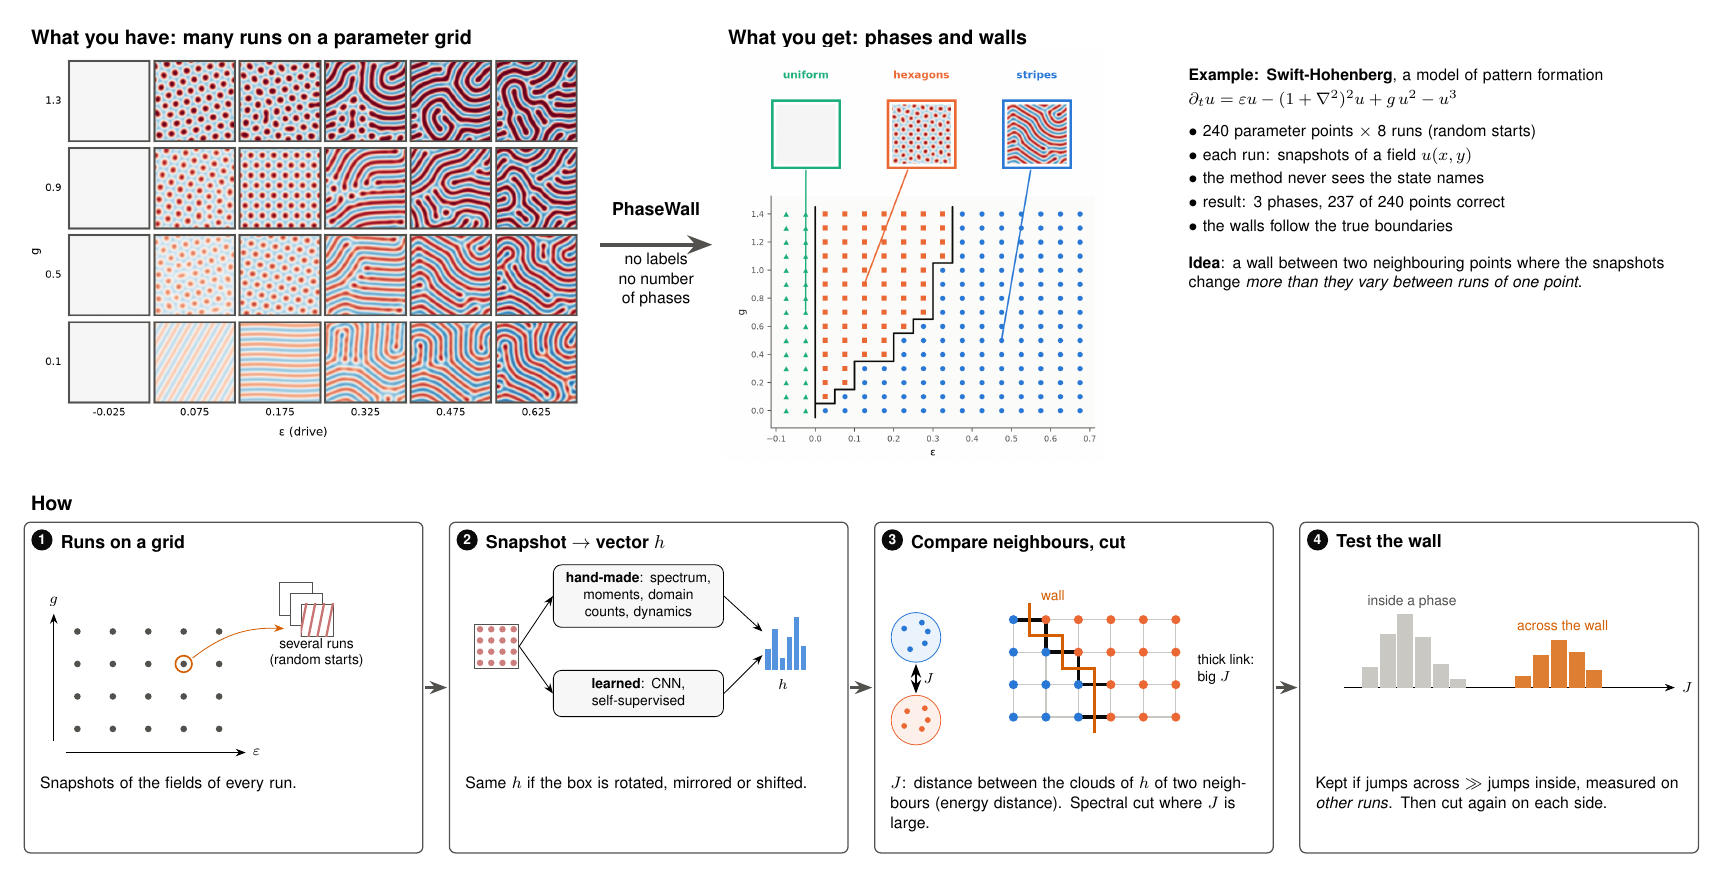
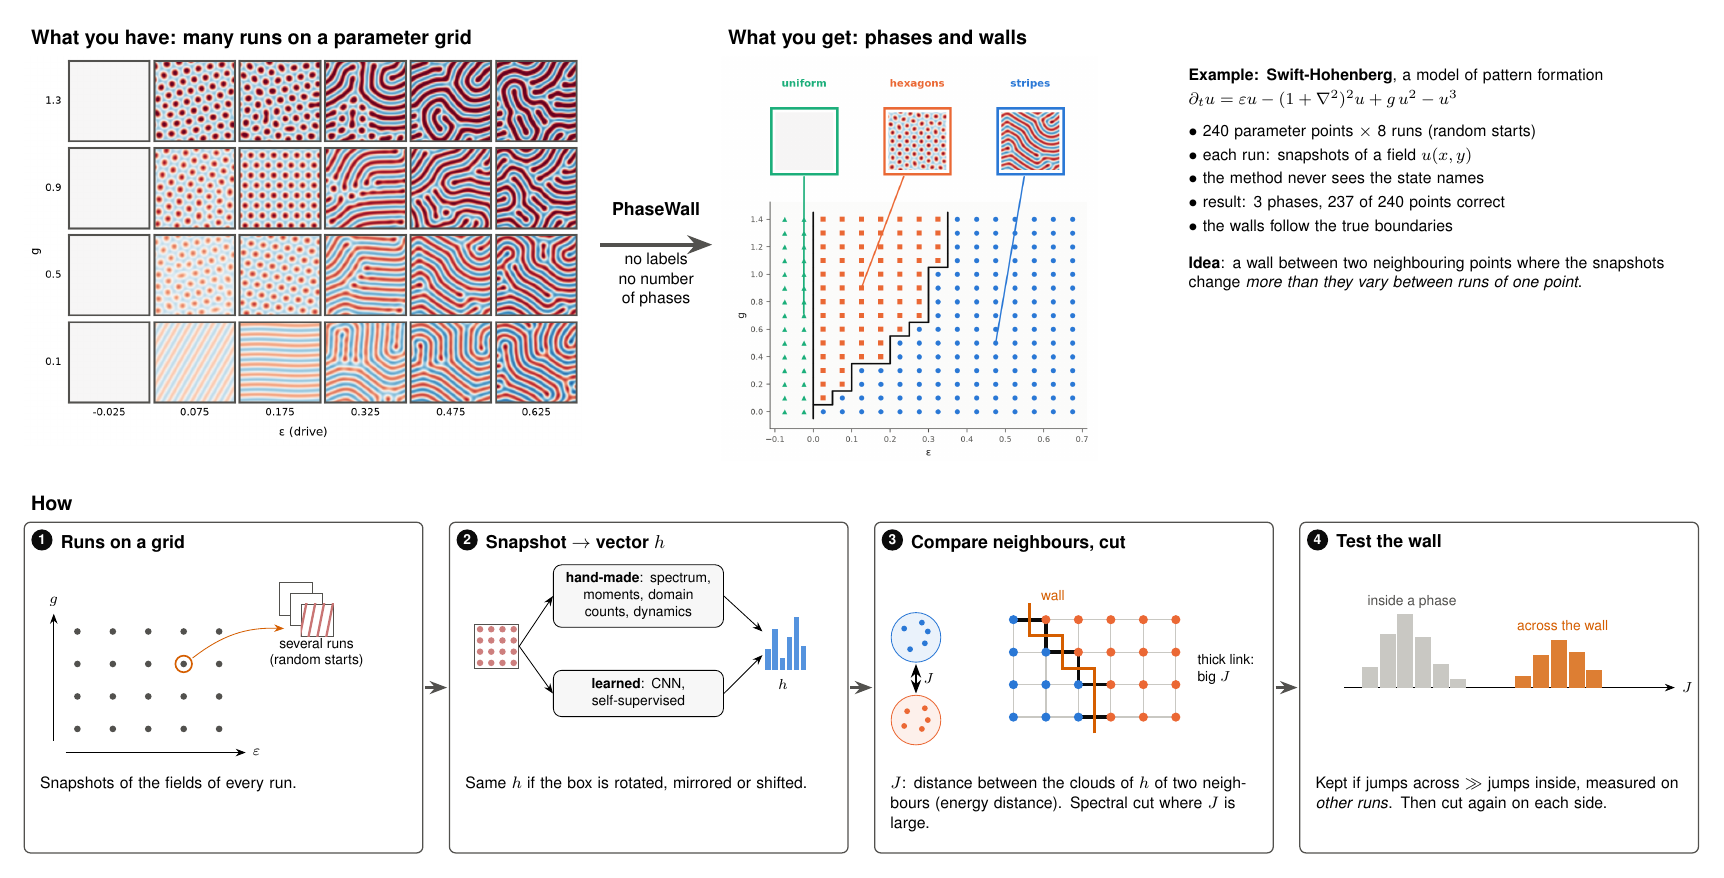
image corrected

Changed region(s): [[0.4304, 0.0615, 0.6456, 0.492]]

diff --git a/docs/tldr/overview_body.tex b/docs/tldr/overview_body.tex
@@ -6,7 +6,7 @@
 \node[font=\bfseries\small, align=center] at (10.7,-4.0) {PhaseWall};
 \node[font=\footnotesize, align=center] at (10.7,-5.2) {no labels\\no number\\of phases};
 \node[anchor=north west, font=\bfseries\normalsize] at (11.8,-0.85) {What you get: phases and walls};
-\node[anchor=north west, inner sep=0] at (11.8,-1.25) {\includegraphics[height=7.0cm]{fig_sh_phases.png}};
+\node[anchor=north west, inner sep=0] at (11.8,-1.4) {\includegraphics[height=6.85cm]{fig_sh_phases.png}};
 \node[say, text width=8.3cm] at (19.6,-1.5) {
 \textbf{Example: Swift-Hohenberg}, a model of pattern formation\\[2pt]
 $\partial_t u=\varepsilon u-(1+\nabla^2)^2u+g\,u^2-u^3$\\[6pt]
